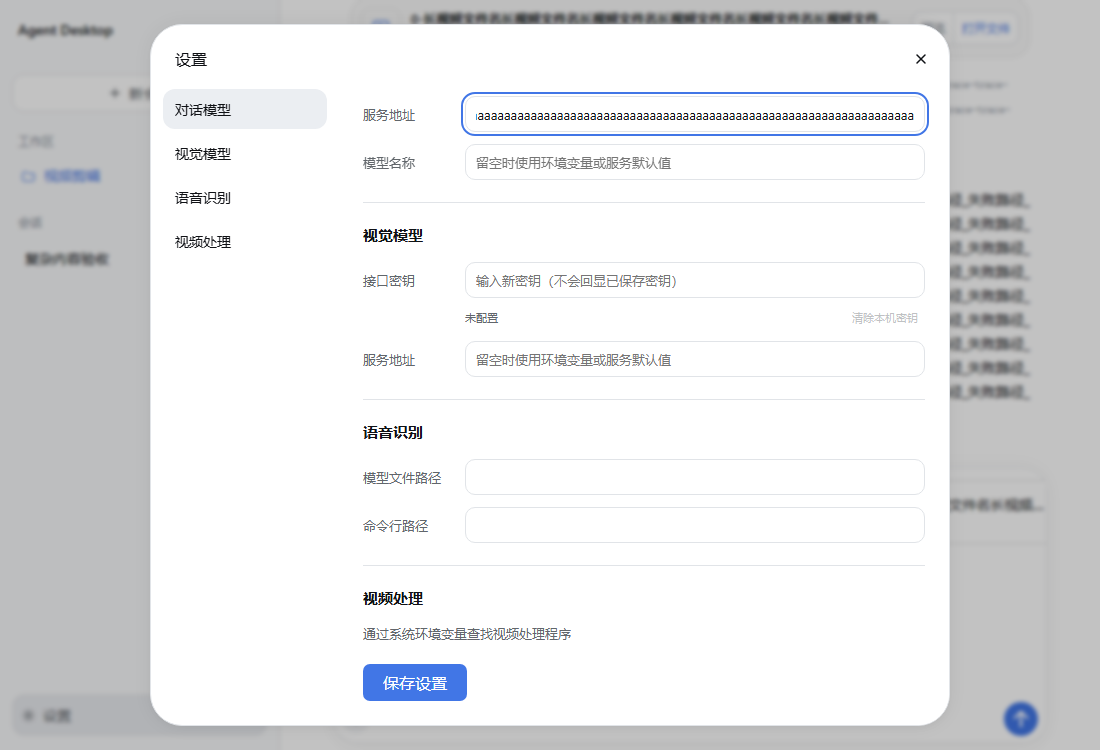
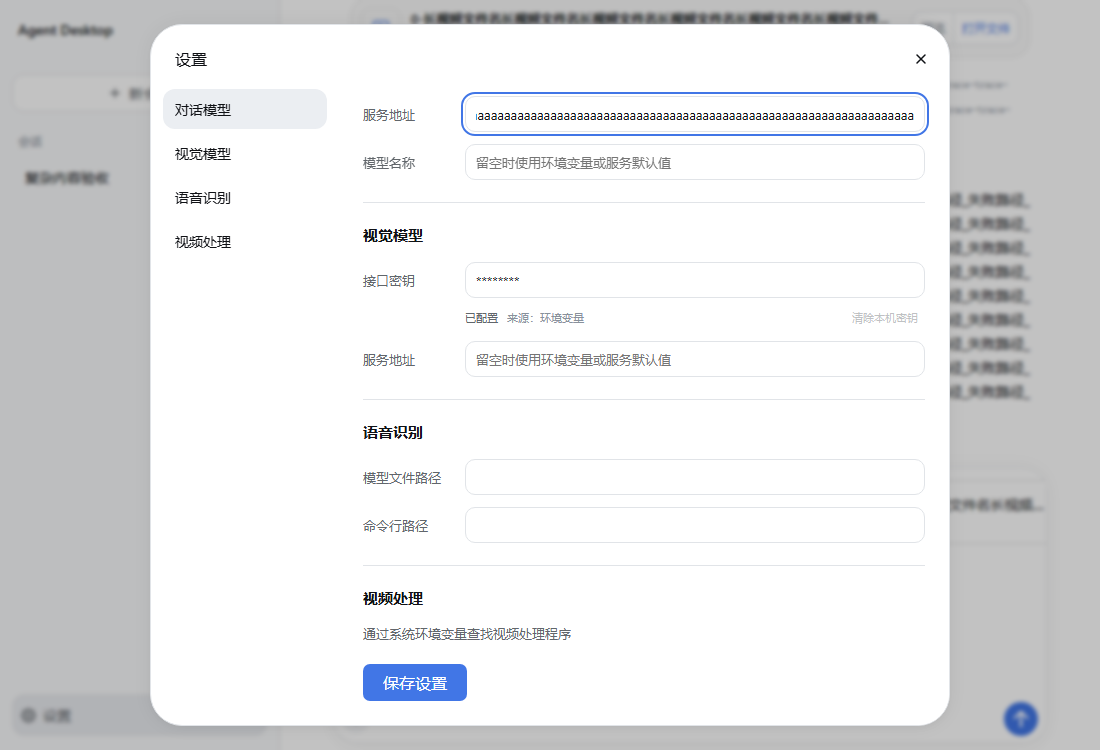
fix: refine desktop settings and sidebar

diff --git a/packages/client/src/components/RuntimeSettingsPanel.tsx b/packages/client/src/components/RuntimeSettingsPanel.tsx
@@ -7,6 +7,8 @@ interface RuntimeSettingsPanelProps {
   readonly onClose: () => void;
 }
 
+const MASKED_SECRET = '********';
+
 function sourceLabel(status: RuntimeSecretStatus): string | null {
   if (status.source === 'saved') return '本机设置';
   if (status.source === 'environment') return '环境变量';
@@ -27,8 +29,9 @@ export function RuntimeSettingsPanel({ api, isProcessing, onClose }: RuntimeSett
   const dialog = useRef<HTMLDialogElement>(null);
   const [section, setSection] = useState('deepseek');
   const [settings, setSettings] = useState<RuntimeSettings | null>(null);
-  const [deepSeekApiKey, setDeepSeekApiKey] = useState('');
-  const [visionApiKey, setVisionApiKey] = useState('');
+  // null 表示沿用 Host 返回的脱敏显示；string 只保存用户本次输入的新密钥。
+  const [deepSeekApiKey, setDeepSeekApiKey] = useState<string | null>(null);
+  const [visionApiKey, setVisionApiKey] = useState<string | null>(null);
   const [deepSeekBaseUrl, setDeepSeekBaseUrl] = useState('');
   const [deepSeekModel, setDeepSeekModel] = useState('');
   const [visionBaseUrl, setVisionBaseUrl] = useState('');
@@ -72,18 +75,18 @@ export function RuntimeSettingsPanel({ api, isProcessing, onClose }: RuntimeSett
     setHasError(false);
     try {
       const next = await api.saveRuntimeSettings({
-        ...(deepSeekApiKey.length === 0 ? {} : { deepSeekApiKey }),
+        ...(deepSeekApiKey === null || deepSeekApiKey.length === 0 ? {} : { deepSeekApiKey }),
         deepSeekBaseUrl: deepSeekBaseUrl.length === 0 ? null : deepSeekBaseUrl,
         deepSeekModel: deepSeekModel.length === 0 ? null : deepSeekModel,
-        ...(visionApiKey.length === 0 ? {} : { visionApiKey }),
+        ...(visionApiKey === null || visionApiKey.length === 0 ? {} : { visionApiKey }),
         visionBaseUrl: visionBaseUrl.length === 0 ? null : visionBaseUrl,
         whisperModelPath: whisperModelPath.length === 0 ? null : whisperModelPath,
         whisperCliPath: whisperCliPath.length === 0 ? null : whisperCliPath,
       });
       applySettings(next);
-      // Key 只在当前输入控件中短暂存在，保存后立即清空，永不从 Host 回显。
-      setDeepSeekApiKey('');
-      setVisionApiKey('');
+      // 新 Key 只在当前输入控件中短暂存在，保存后立即丢弃并恢复 Host 的星号掩码。
+      setDeepSeekApiKey(null);
+      setVisionApiKey(null);
       setMessage('设置已保存，将从下一次任务开始生效。');
     } catch (error) {
       setHasError(true);
@@ -101,6 +104,8 @@ export function RuntimeSettingsPanel({ api, isProcessing, onClose }: RuntimeSett
     try {
       const next = await api.saveRuntimeSettings({ [name]: null });
       applySettings(next);
+      if (name === 'deepSeekApiKey') setDeepSeekApiKey(null);
+      else setVisionApiKey(null);
       setMessage('已清除本机保存的接口密钥。');
     } catch (error) {
       setHasError(true);
@@ -146,11 +151,13 @@ export function RuntimeSettingsPanel({ api, isProcessing, onClose }: RuntimeSett
                 <label>
                   <span>接口密钥</span>
                   <input
-                    type="password"
-                    value={deepSeekApiKey}
+                    type={deepSeekApiKey === null ? 'text' : 'password'}
+                    value={deepSeekApiKey ?? (settings.deepSeek.apiKey.configured ? MASKED_SECRET : '')}
                     disabled={disabled}
                     autoComplete="off"
-                    placeholder="输入新密钥（不会回显已保存密钥）"
+                    placeholder="输入新密钥"
+                    onFocus={() => { if (deepSeekApiKey === null) setDeepSeekApiKey(''); }}
+                    onBlur={() => { if (deepSeekApiKey === '') setDeepSeekApiKey(null); }}
                     onChange={(event) => setDeepSeekApiKey(event.target.value)}
                   />
                 </label>
@@ -171,11 +178,13 @@ export function RuntimeSettingsPanel({ api, isProcessing, onClose }: RuntimeSett
                 <label>
                   <span>接口密钥</span>
                   <input
-                    type="password"
-                    value={visionApiKey}
+                    type={visionApiKey === null ? 'text' : 'password'}
+                    value={visionApiKey ?? (settings.vision.apiKey.configured ? MASKED_SECRET : '')}
                     disabled={disabled}
                     autoComplete="off"
-                    placeholder="输入新密钥（不会回显已保存密钥）"
+                    placeholder="输入新密钥"
+                    onFocus={() => { if (visionApiKey === null) setVisionApiKey(''); }}
+                    onBlur={() => { if (visionApiKey === '') setVisionApiKey(null); }}
                     onChange={(event) => setVisionApiKey(event.target.value)}
                   />
                 </label>

diff --git a/packages/client/src/App.tsx b/packages/client/src/App.tsx
@@ -430,15 +430,6 @@ export function App({ api }: AppProps) {
           </svg>
           <span>新会话</span>
         </button>
-        <div className="sidebar-section-label">工作区</div>
-        <div className="sidebar-workspace" aria-label="当前工作区">
-          <span className="sidebar-folder" aria-hidden="true">
-            <svg viewBox="0 0 20 20" width="16" height="16" focusable="false">
-              <path d="M3.5 5.25h4l1.55 1.8h7.45v7.7a1.5 1.5 0 0 1-1.5 1.5h-11.5a1.5 1.5 0 0 1-1.5-1.5v-8a1.5 1.5 0 0 1 1.5-1.5Z" />
-            </svg>
-          </span>
-          <span>视频剪辑</span>
-        </div>
         <div className="sidebar-section-label sidebar-sessions-label">
           <span>会话</span>
           <button className="sidebar-search" type="button" disabled aria-label="搜索会话（待接入）" title="搜索会话待接入">
@@ -550,8 +541,9 @@ export function App({ api }: AppProps) {
           onClick={() => setActiveView('settings')}
         >
           <svg viewBox="0 0 16 16" width="15" height="15" aria-hidden="true" focusable="false">
-            <circle cx="8" cy="8" r="2.25" />
-            <path d="M8 1.75v1.5M8 12.75v1.5M1.75 8h1.5M12.75 8h1.5M3.58 3.58l1.06 1.06M11.36 11.36l1.06 1.06M12.42 3.58l-1.06 1.06M4.64 11.36l-1.06 1.06" />
+            {/* 齿轮轮廓：8 齿，齿顶半径 7.2、齿根半径 5.0，中心为 2.2 半径的轴孔。 */}
+            <path d="M15.11 6.87A7.2 7.2 0 0 1 15.11 9.13L12.86 9.17A5 5 0 0 1 12.26 10.61L13.82 12.23A7.2 7.2 0 0 1 12.23 13.82L10.61 12.26A5 5 0 0 1 9.17 12.86L9.13 15.11A7.2 7.2 0 0 1 6.87 15.11L6.83 12.86A5 5 0 0 1 5.39 12.26L3.77 13.82A7.2 7.2 0 0 1 2.18 12.23L3.74 10.61A5 5 0 0 1 3.14 9.17L0.89 9.13A7.2 7.2 0 0 1 0.89 6.87L3.14 6.83A5 5 0 0 1 3.74 5.39L2.18 3.77A7.2 7.2 0 0 1 3.77 2.18L5.39 3.74A5 5 0 0 1 6.83 3.14L6.87 0.89A7.2 7.2 0 0 1 9.13 0.89L9.17 3.14A5 5 0 0 1 10.61 3.74L12.23 2.18A7.2 7.2 0 0 1 13.82 3.77L12.26 5.39A5 5 0 0 1 12.86 6.83Z" />
+            <circle cx="8" cy="8" r="2.2" />
           </svg>
           <span>设置</span>
         </button>

diff --git a/packages/client/src/styles.css b/packages/client/src/styles.css
@@ -15,7 +15,7 @@
   --accent: #4176e6;
   --success: #268a5b;
   --danger: #d64a4a;
-  --sidebar: #f9fafb;
+  --sidebar: #f2f2f2;
 }
 
 * {
@@ -124,24 +124,6 @@ input:focus-visible {
   line-height: 18px;
 }
 
-.sidebar-workspace,
-.sidebar-session {
-  display: flex;
-  align-items: center;
-  min-width: 0;
-  border-radius: 8px;
-  color: var(--text-secondary);
-  font-size: 14px;
-  min-height: 32px;
-  padding: 6px 8px;
-}
-
-.sidebar-workspace {
-  gap: 7px;
-  padding: 8px 9px;
-  color: var(--accent);
-}
-
 .sidebar-new-session {
   display: flex;
   align-items: center;
@@ -187,6 +169,7 @@ input:focus-visible {
   fill: none;
   stroke: currentColor;
   stroke-linecap: round;
+  stroke-linejoin: round;
   stroke-width: 1.25;
 }
 
@@ -207,31 +190,20 @@ input:focus-visible {
   opacity: 0.4;
 }
 
-.sidebar-folder {
-  display: grid;
-  flex: 0 0 auto;
-  width: 16px;
-  height: 16px;
-  place-items: center;
-}
-
-.sidebar-folder svg {
-  fill: none;
-  stroke: currentColor;
-  stroke-linecap: round;
-  stroke-linejoin: round;
-  stroke-width: 1.25;
-}
-
 .sidebar-session {
+  display: flex;
+  align-items: center;
   justify-content: space-between;
   gap: 8px;
+  min-width: 0;
   width: 100%;
   min-height: 34px;
   padding: 9px;
   border: 0;
+  border-radius: 8px;
   color: var(--text-primary);
   background: transparent;
+  font-size: 14px;
   text-align: left;
   cursor: pointer;
 }
@@ -1467,16 +1439,11 @@ input:focus-visible {
 
   .sidebar-brand strong,
   .sidebar-section-label,
-  .sidebar-workspace > span:not(.sidebar-folder),
   .sidebar-new-session span,
   .sidebar-settings span,
   .sidebar-session span,
   .sidebar-session small {
     display: none;
-  }
-
-  .sidebar-workspace {
-    padding: 8px;
   }
 
   .sidebar-new-session {

diff --git a/apps/web/tests/browser/web-client-smoke.pw.ts b/apps/web/tests/browser/web-client-smoke.pw.ts
@@ -22,13 +22,26 @@ test('runs the shared client task and preserves session state', async ({ page })
 
   await page.getByRole('button', { name: '设置' }).click();
   await expect(page.getByRole('main', { name: '设置' })).toBeVisible();
-  const secretInputs = page.locator('input[type="password"]');
+  const secretInputs = page.getByLabel('接口密钥', { exact: true });
   await expect(secretInputs).toHaveCount(2);
+  await expect(secretInputs.first()).toHaveAttribute('type', 'text');
+  await secretInputs.first().focus();
+  await expect(secretInputs.first()).toHaveAttribute('type', 'password');
   await secretInputs.first().fill('web-deepseek-secret');
   await page.getByLabel('模型名称', { exact: true }).fill('web-runtime-model');
   await page.getByRole('button', { name: '保存设置' }).click();
   await expect(page.getByText('设置已保存，将从下一次任务开始生效。')).toBeVisible();
+  await expect(secretInputs.first()).toHaveValue('********');
+  await expect(secretInputs.first()).toHaveAttribute('type', 'text');
+  await secretInputs.first().focus();
   await expect(secretInputs.first()).toHaveValue('');
+  await secretInputs.first().fill('pending-secret');
+  await page.getByLabel('模型名称', { exact: true }).focus();
+  await secretInputs.first().focus();
+  await expect(secretInputs.first()).toHaveValue('pending-secret');
+  await secretInputs.first().fill('');
+  await page.getByLabel('模型名称', { exact: true }).focus();
+  await expect(secretInputs.first()).toHaveValue('********');
   await expect(page.getByText('来源：本机设置').first()).toBeVisible();
   await expect(page.getByText('通过系统环境变量查找视频处理程序')).toBeVisible();
   await expectNoHorizontalOverflow(page);

diff --git a/apps/web/tests/browser/client-layout.pw.ts b/apps/web/tests/browser/client-layout.pw.ts
@@ -100,7 +100,15 @@ test('fits long attachments, expanded tools, failures and settings across window
     await route.fulfill({ contentType: 'text/javascript', body: `
       import { createWebClientApi as createHost } from '/webClientApi.ts?layout-fixture';
       export function createWebClientApi() {
-        return { ...createHost(), loadClientState: async () => (${JSON.stringify(snapshot)}) };
+        return {
+          ...createHost(),
+          loadClientState: async () => (${JSON.stringify(snapshot)}),
+          loadRuntimeSettings: async () => ({
+            deepSeek: {apiKey: {configured: true, source: 'environment'}, baseUrl: '', model: ''},
+            vision: {apiKey: {configured: true, source: 'environment'}, baseUrl: ''},
+            whisper: {modelPath: '', cliPath: ''},
+          }),
+        };
       }
     ` });
   });
@@ -121,6 +129,10 @@ test('fits long attachments, expanded tools, failures and settings across window
     await page.screenshot({ animations: 'disabled', path: testInfo.outputPath(`content-${width}x${height}.png`) });
     await page.getByRole('button', { name: '设置', exact: true }).click();
     await expect(page.getByText('通过系统环境变量查找视频处理程序')).toBeAttached();
+    const secretInputs = page.getByLabel('接口密钥', { exact: true });
+    await expect(secretInputs).toHaveCount(2);
+    await expect(secretInputs.first()).toHaveValue('********');
+    await expect(secretInputs.nth(1)).toHaveValue('********');
     await page.getByLabel('服务地址', { exact: true }).first().fill('https://example.test/' + 'a'.repeat(250));
     await expectNoHorizontalScroll(page);
     await page.getByRole('button', { name: '保存设置', exact: true }).scrollIntoViewIfNeeded();

diff --git a/packages/client/tests/app.test.tsx b/packages/client/tests/app.test.tsx
@@ -100,7 +100,7 @@ describe('shared App', () => {
   });
 
   it('loads and saves runtime settings without receiving or echoing saved API keys', async () => {
-    const saveRuntimeSettings = vi.fn(async () => ({
+    const saveRuntimeSettings = vi.fn(async (_update: Parameters<AgentClientApi['saveRuntimeSettings']>[0]) => ({
       deepSeek: {
         apiKey: { configured: true as const, source: 'saved' as const },
         baseUrl: 'https://deepseek.saved.test',
@@ -133,11 +133,18 @@ describe('shared App', () => {
       deepSeekModel: 'runtime-model',
     })));
     await screen.findByText('设置已保存，将从下一次任务开始生效。');
-    expect((deepSeekKey as HTMLInputElement).value).toBe('');
+    expect((deepSeekKey as HTMLInputElement).value).toBe('********');
+    const visionKey = screen.getAllByLabelText('接口密钥', { selector: 'input' })[1]!;
+    expect((visionKey as HTMLInputElement).value).toBe('********');
     expect(screen.queryByDisplayValue('renderer-only-new-key')).toBeNull();
     expect(screen.getAllByText('已配置')).toHaveLength(2);
     expect(screen.getByText('来源：本机设置')).toBeTruthy();
     expect(screen.getByText('来源：环境变量')).toBeTruthy();
+
+    fireEvent.click(screen.getByRole('button', { name: '保存设置' }));
+    await waitFor(() => expect(saveRuntimeSettings).toHaveBeenCalledTimes(2));
+    expect(saveRuntimeSettings.mock.calls[1]![0]).not.toHaveProperty('deepSeekApiKey');
+    expect(saveRuntimeSettings.mock.calls[1]![0]).not.toHaveProperty('visionApiKey');
   });
 
   it('restores the persisted UI snapshot without rebuilding model context in the Client', async () => {

diff --git a/apps/desktop/tests/app.test.tsx b/apps/desktop/tests/app.test.tsx
@@ -54,7 +54,7 @@ describe('App', () => {
     render(<App />);
 
     expect(screen.getByRole('complementary', { name: '工作区导航' })).toBeTruthy();
-    expect(screen.getByText('视频剪辑')).toBeTruthy();
+    expect(screen.queryByText('视频剪辑')).toBeNull();
     expect(screen.getByRole('button', { name: '会话 1' })).toBeTruthy();
     expect(screen.getByText('Agent Desktop')).toBeTruthy();
     expect(screen.queryByText('视频智能剪辑')).toBeNull();
